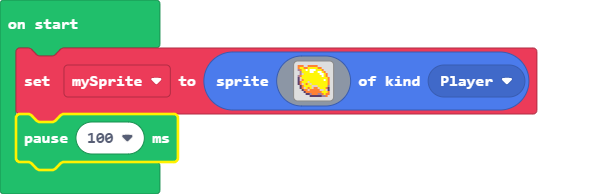
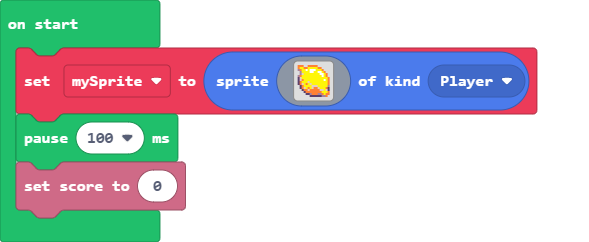
Added score because sadness

diff --git a/main.ts b/main.ts
@@ -17,3 +17,4 @@ let mySprite = sprites.create(img`
     . . . . . . c c c c c c b b 4 . 
     `, SpriteKind.Player)
 pause(100)
+info.setScore(0)
